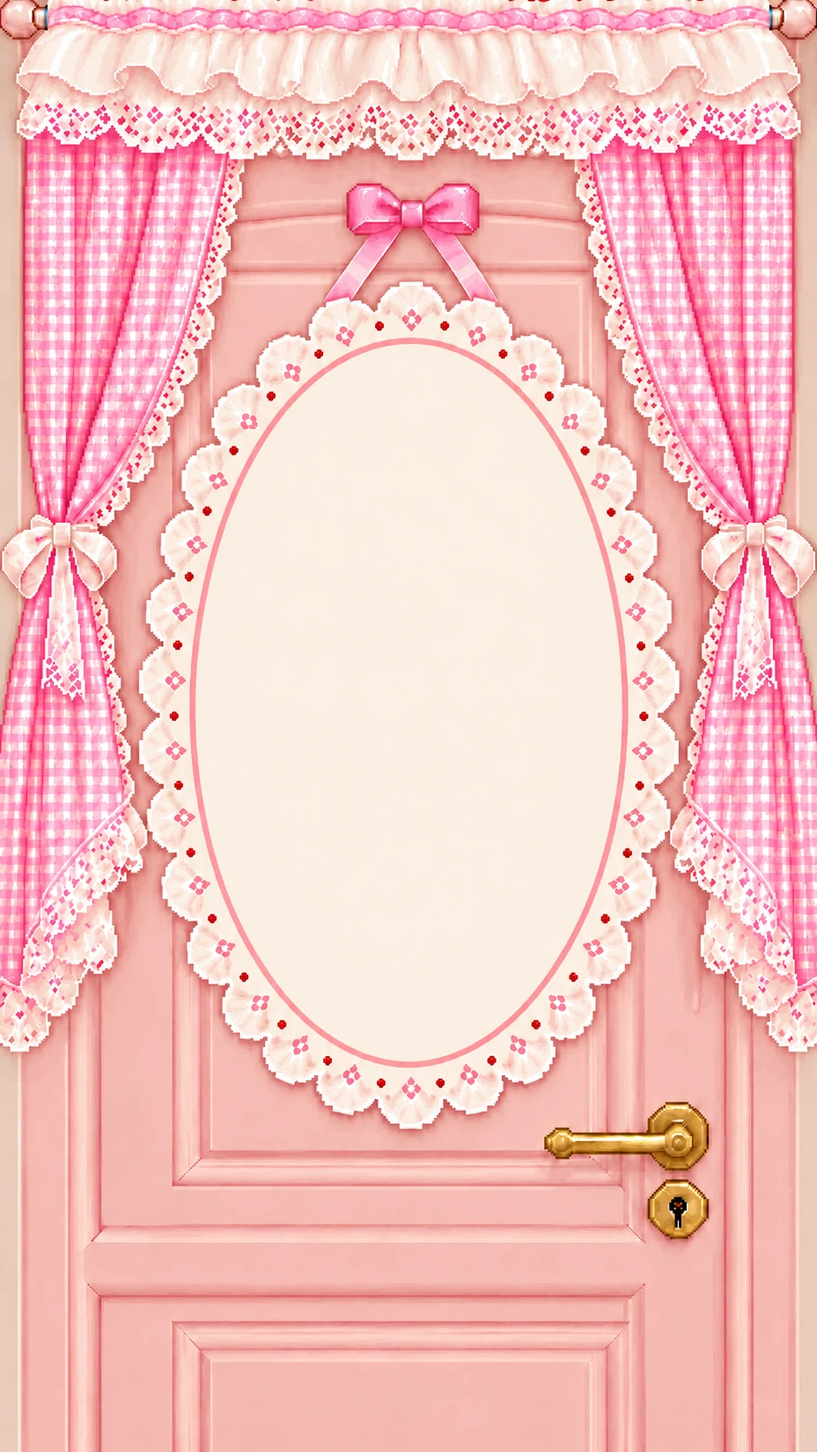
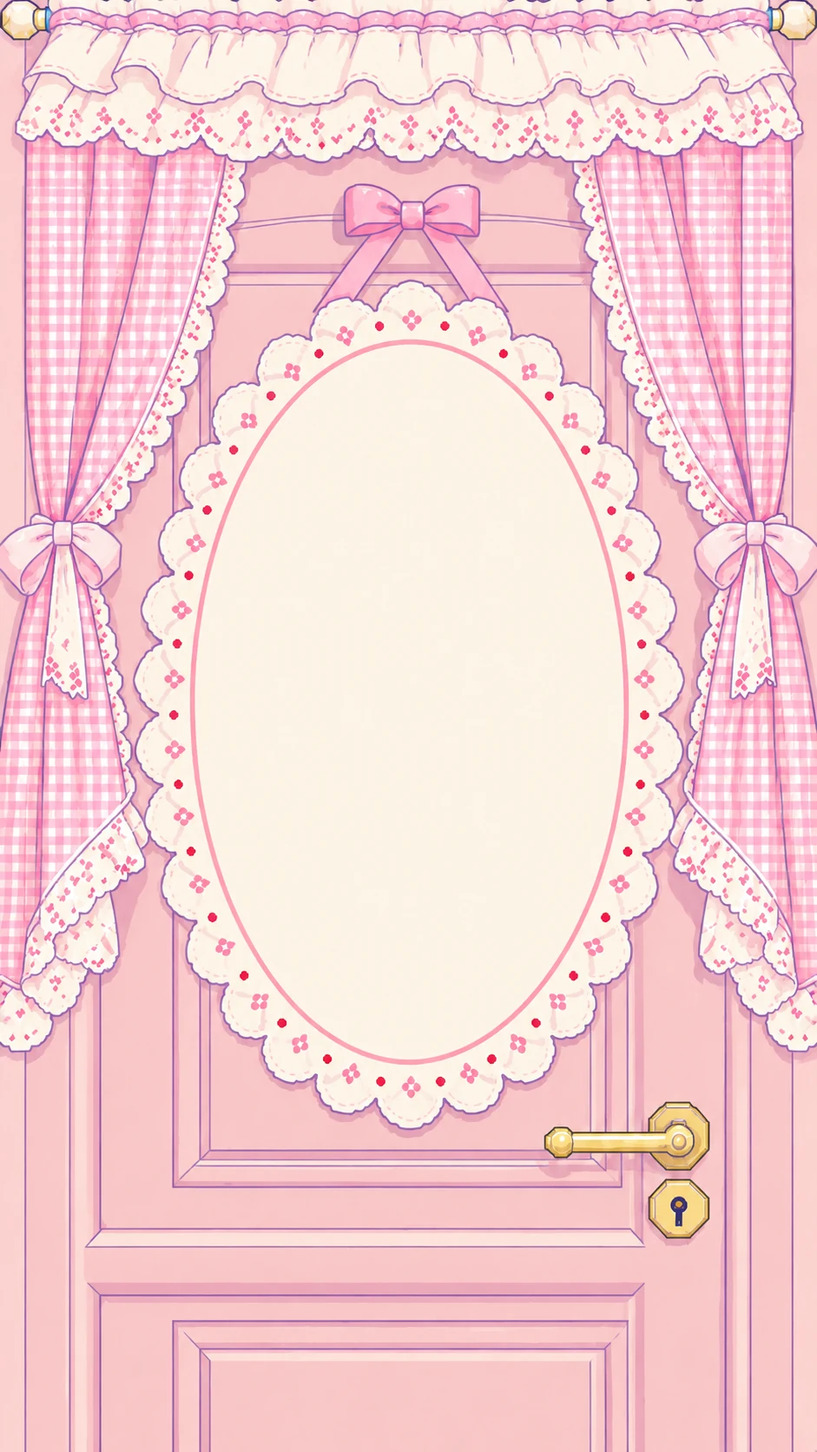
Add files via upload

diff --git a/index.html b/index.html
@@ -18,9 +18,9 @@
     <!-- html2canvas (PNG 저장용) -->
     <script src="https://cdnjs.cloudflare.com/ajax/libs/html2canvas/1.4.1/html2canvas.min.js"></script>
 
-    <script src="js/features.js?v=20261009-810"></script>   <!-- 🔓 기능 공개 스위치 (다른 것보다 먼저) -->
-    <link rel="stylesheet" href="css/style.css?v=20261009-810">
-    <link rel="stylesheet" href="css/dakku.css?v=20261009-810">
+    <script src="js/features.js?v=20261009-811"></script>   <!-- 🔓 기능 공개 스위치 (다른 것보다 먼저) -->
+    <link rel="stylesheet" href="css/style.css?v=20261009-811">
+    <link rel="stylesheet" href="css/dakku.css?v=20261009-811">
     <script src="https://accounts.google.com/gsi/client" async defer></script>
 </head>
 <body>
@@ -41,44 +41,14 @@
             <!-- 처음 화면 : 요정 픽셀 버튼 두 개 (도련 2026-10-20) · 그림은 SVG 한 칸 = 4px · 움직임은 css/style.css 의 gf- 칸 -->
             <button id="gateLoginBtn" class="gate-pick gf-btn gf-sky" type="button" style="display:none" onclick="driveLogin()">
             <span class="gf-art">
-            <svg viewBox="0 -3 76 37" aria-hidden="true">
-            <path fill="#e48aa9" d="M16 14h54v1h-54zM14 15h2v1h-2zM70 15h2v1h-2zM13 16h1v1h-1zM72 16h1v1h-1zM12 17h1v2h-1zM73 17h1v2h-1zM11 19h1v10h-1zM74 19h1v10h-1zM12 29h1v2h-1zM73 29h1v2h-1zM13 31h1v1h-1zM72 31h1v1h-1zM14 32h2v1h-2zM70 32h2v1h-2zM16 33h54v1h-54z"></path><path fill="#ffeef4" d="M16 15h54v1h-54zM14 16h58v1h-58zM13 17h1v1h-1zM72 17h1v1h-1z"></path><path fill="#ffd6e4" d="M14 17h4v1h-4zM20 17h1v1h-1zM23 17h1v1h-1zM26 17h1v1h-1zM29 17h1v1h-1zM32 17h1v1h-1zM35 17h1v1h-1zM38 17h1v1h-1zM41 17h1v1h-1zM44 17h1v1h-1zM47 17h1v1h-1zM50 17h1v1h-1zM53 17h1v1h-1zM56 17h1v1h-1zM59 17h1v1h-1zM62 17h1v1h-1zM65 17h1v1h-1zM68 17h4v1h-4zM13 18h56v1h-56zM70 18h3v1h-3zM12 19h58v1h-58zM71 19h3v1h-3zM12 20h62v1h-62zM12 21h2v2h-2zM15 21h56v2h-56zM72 21h2v2h-2zM12 23h62v1h-62zM12 24h2v2h-2zM15 24h56v2h-56zM72 24h2v2h-2zM12 26h62v1h-62zM12 27h2v1h-2zM15 27h56v1h-56zM72 27h2v1h-2zM13 28h57v1h-57zM71 28h2v1h-2zM14 29h2v1h-2zM17 29h52v1h-52zM70 29h2v1h-2zM16 30h1v1h-1zM19 30h1v1h-1zM22 30h1v1h-1zM25 30h1v1h-1zM28 30h1v1h-1zM31 30h1v1h-1zM34 30h1v1h-1zM37 30h1v1h-1zM40 30h1v1h-1zM43 30h1v1h-1zM46 30h1v1h-1zM49 30h1v1h-1zM52 30h1v1h-1zM55 30h1v1h-1zM58 30h1v1h-1zM61 30h1v1h-1zM64 30h1v1h-1zM67 30h1v1h-1zM69 30h1v1h-1z"></path><path fill="#ffffff" d="M18 17h2v1h-2zM21 17h2v1h-2zM24 17h2v1h-2zM27 17h2v1h-2zM30 17h2v1h-2zM33 17h2v1h-2zM36 17h2v1h-2zM39 17h2v1h-2zM42 17h2v1h-2zM45 17h2v1h-2zM48 17h2v1h-2zM51 17h2v1h-2zM54 17h2v1h-2zM57 17h2v1h-2zM60 17h2v1h-2zM63 17h2v1h-2zM66 17h2v1h-2zM69 18h1v1h-1zM70 19h1v1h-1zM14 21h1v2h-1zM71 21h1v2h-1zM14 24h1v2h-1zM71 24h1v2h-1zM14 27h1v1h-1zM71 27h1v1h-1zM70 28h1v1h-1zM16 29h1v1h-1zM69 29h1v1h-1zM17 30h2v1h-2zM20 30h2v1h-2zM23 30h2v1h-2zM26 30h2v1h-2zM29 30h2v1h-2zM32 30h2v1h-2zM35 30h2v1h-2zM38 30h2v1h-2zM41 30h2v1h-2zM44 30h2v1h-2zM47 30h2v1h-2zM50 30h2v1h-2zM53 30h2v1h-2zM56 30h2v1h-2zM59 30h2v1h-2zM62 30h2v1h-2zM65 30h2v1h-2zM68 30h1v1h-1z"></path><path fill="#f5b2c9" d="M12 28h1v1h-1zM73 28h1v1h-1zM13 29h1v1h-1zM72 29h1v1h-1zM13 30h3v1h-3zM70 30h3v1h-3zM14 31h58v1h-58zM16 32h54v1h-54z"></path>
-            <g class="gf-fy"><!-- 🧚 분홍 요정 = 분홍 버튼 (도련 10-28 · 요정 자리 바꿈) --><g transform="translate(-50 0)">
-            <g class="gf-wu"><path fill="#f3a6c4" d="M54 0h3v1h-3zM69 0h3v1h-3zM53 1h1v1h-1zM57 1h1v1h-1zM68 1h1v1h-1zM72 1h1v1h-1zM52 2h1v5h-1zM58 2h1v5h-1zM67 2h1v5h-1zM73 2h1v5h-1zM53 7h1v1h-1zM57 7h1v1h-1zM68 7h1v1h-1zM72 7h1v1h-1zM54 8h1v2h-1zM58 8h1v3h-1zM67 8h1v3h-1zM71 8h1v2h-1zM55 10h1v1h-1zM70 10h1v1h-1zM56 11h2v1h-2zM68 11h2v1h-2z"></path><path fill="#ffe9f2" d="M54 1h3v1h-3zM69 1h3v1h-3zM53 2h5v1h-5zM68 2h5v1h-5zM53 3h2v1h-2zM56 3h2v1h-2zM68 3h2v1h-2zM71 3h2v1h-2zM53 4h5v3h-5zM68 4h5v3h-5zM54 7h3v1h-3zM69 7h3v1h-3zM55 8h3v2h-3zM68 8h3v2h-3zM56 10h2v1h-2zM68 10h2v1h-2z"></path><path fill="#ffffff" d="M55 3h1v1h-1zM70 3h1v1h-1z"></path></g>
-            <g class="gf-wd"><path fill="#f3a6c4" d="M54 3h3v1h-3zM69 3h3v1h-3zM53 4h1v1h-1zM57 4h1v1h-1zM68 4h1v1h-1zM72 4h1v1h-1zM52 5h1v5h-1zM58 5h1v8h-1zM67 5h1v8h-1zM73 5h1v5h-1zM53 10h1v1h-1zM72 10h1v1h-1zM54 11h1v1h-1zM71 11h1v1h-1zM55 12h1v1h-1zM70 12h1v1h-1zM56 13h2v1h-2zM68 13h2v1h-2z"></path><path fill="#ffe9f2" d="M54 4h3v1h-3zM69 4h3v1h-3zM53 5h5v1h-5zM68 5h5v1h-5zM53 6h2v1h-2zM56 6h2v1h-2zM68 6h2v1h-2zM71 6h2v1h-2zM53 7h5v3h-5zM68 7h5v3h-5zM54 10h4v1h-4zM68 10h4v1h-4zM55 11h3v1h-3zM68 11h3v1h-3zM56 12h2v1h-2zM68 12h2v1h-2z"></path><path fill="#ffffff" d="M55 6h1v1h-1zM70 6h1v1h-1z"></path></g>
-            <path fill="#ff6b81" d="M65 -1h1v1h-1zM64 0h1v1h-1zM66 0h1v1h-1zM65 1h1v1h-1z"></path><path fill="#e08aa8" d="M60 0h4v1h-4zM59 1h1v1h-1zM66 1h1v1h-1zM58 2h1v1h-1zM67 2h1v1h-1zM57 3h1v6h-1zM68 3h1v6h-1zM58 9h1v1h-1zM67 9h1v1h-1zM59 10h2v1h-2zM65 10h2v1h-2zM60 11h1v1h-1zM65 11h1v1h-1zM56 12h1v1h-1zM59 12h1v1h-1zM66 12h1v1h-1zM57 13h2v1h-2zM67 13h1v1h-1zM58 14h1v1h-1zM67 14h1v1h-1zM57 15h1v1h-1zM68 15h1v1h-1zM57 16h12v1h-12zM60 17h1v1h-1zM65 17h1v1h-1zM60 18h2v1h-2zM64 18h2v1h-2z"></path><path fill="#ffe27a" d="M65 0h1v1h-1z"></path><path fill="#ff9fbf" d="M60 1h5v1h-5zM59 2h8v1h-8zM58 3h10v1h-10zM58 4h2v1h-2zM61 4h4v1h-4zM66 4h2v1h-2zM58 5h1v1h-1zM66 5h1v1h-1zM58 6h1v1h-1zM67 6h1v1h-1zM58 7h1v1h-1zM67 7h1v1h-1zM58 8h1v1h-1zM67 8h1v1h-1zM59 9h1v1h-1zM66 9h1v1h-1z"></path><path fill="#7cc58f" d="M67 1h2v1h-2z"></path><path fill="#f0769f" d="M60 4h1v1h-1zM65 4h1v1h-1zM59 5h1v1h-1zM67 5h1v1h-1z"></path><path fill="#ffe5d6" d="M60 5h6v1h-6zM59 6h8v1h-8zM59 7h8v1h-8zM60 8h2v1h-2zM64 8h2v1h-2zM60 9h6v1h-6zM61 10h4v1h-4zM57 12h1v1h-1zM61 17h1v1h-1zM64 17h1v1h-1z"></path><path fill="#ff9fb5" d="M59 8h1v1h-1zM66 8h1v1h-1z"></path><path fill="#d9607a" d="M62 8h2v1h-2z"></path><path fill="#bfe9c9" d="M61 11h4v1h-4zM60 12h6v1h-6zM59 13h2v1h-2zM62 13h2v1h-2zM65 13h2v1h-2zM59 14h8v1h-8zM58 15h2v1h-2zM61 15h4v1h-4zM66 15h2v1h-2z"></path><path fill="#8fd0a2" d="M61 13h1v1h-1zM64 13h1v1h-1zM60 15h1v1h-1zM65 15h1v1h-1z"></path>
-            <g class="gf-eo"><path fill="#6a4a5c" d="M60 6h1v2h-1zM65 6h1v2h-1z"></path></g>
-            <g class="gf-ec"><path fill="#6a4a5c" d="M59 7h2v1h-2zM65 7h2v1h-2z"></path></g>
-            <g class="gf-eh"><path fill="#6a4a5c" d="M60 6h1v1h-1zM65 6h1v1h-1zM59 7h1v1h-1zM61 7h1v1h-1zM64 7h1v1h-1zM66 7h1v1h-1z"></path></g>
-            <g class="gf-wnd"><path fill="#ff6b81" d="M72 5h1v1h-1zM71 6h3v1h-3zM70 7h2v1h-2zM73 7h2v1h-2zM71 8h1v1h-1zM73 8h1v1h-1z"></path><path fill="#ffffff" d="M72 7h1v1h-1z"></path><path fill="#c08a5a" d="M72 9h1v1h-1zM71 10h1v1h-1zM70 11h1v1h-1z"></path><path fill="#ffe5d6" d="M69 12h1v1h-1z"></path><path fill="#e08aa8" d="M70 12h1v1h-1zM69 13h1v1h-1z"></path></g>
-            </g></g>
-            <g class="gf-ht"><g transform="translate(27 2)"><path fill="#ff6b81" d="M1 0h2v1h-2zM4 0h2v1h-2zM0 1h1v1h-1zM2 1h5v1h-5zM0 2h7v1h-7zM1 3h5v1h-5zM2 4h3v1h-3zM3 5h1v1h-1z"></path><path fill="#ffffff" d="M1 1h1v1h-1z"></path></g></g>
-            <g class="gf-ht gf-ht2"><g transform="translate(-4 6)"><path fill="#ffb3c8" d="M1 0h2v1h-2zM4 0h2v1h-2zM0 1h7v2h-7zM1 3h5v1h-5zM2 4h3v1h-3zM3 5h1v1h-1z"></path></g></g>
-            <g class="gf-sp"><g transform="translate(25 0)"><path fill="#ffd34d" d="M1 0h1v1h-1zM0 1h3v1h-3zM1 2h1v1h-1z"></path></g></g>
-            <g class="gf-sp gf-sp2"><g transform="translate(70 8)"><path fill="#ffd34d" d="M2 0h1v2h-1zM0 2h2v1h-2zM3 2h2v1h-2zM2 3h1v2h-1z"></path><path fill="#ffffff" d="M2 2h1v1h-1z"></path></g></g>
-            </svg>
+            <svg viewBox="0 -3 76 37" aria-hidden="true"><defs><linearGradient id="gflg" x1="0" y1="0" x2="0" y2="1"><stop offset="0" stop-color="#ffe3ed"/><stop offset="1" stop-color="#fcc0d4"/></linearGradient></defs><rect x="11.3" y="16.2" width="63.4" height="17.6" rx="5.2" fill="#f2a6c1" stroke="#9a6eaa" stroke-width=".55"/><rect x="11.3" y="14.3" width="63.4" height="17.4" rx="5.2" fill="url(#gflg)" stroke="#9a6eaa" stroke-width=".55"/><rect x="12.9" y="15.9" width="60.2" height="14.2" rx="3.8" fill="none" stroke="#fff" stroke-width=".5" stroke-dasharray="1.5 1.1" opacity=".95"/><path d="M15 16.3 H71" stroke="#fff" stroke-width=".9" stroke-linecap="round" opacity=".55"/><g class="gf-fy"><!-- 🧚 분홍 요정 = 분홍 버튼 (도련 10-28 · 문 그림의 연보라 선 · 파스텔 톤) --><g transform="translate(0 -.5)"><g class="gf-wu"><g transform="rotate(-32 10 10)"><ellipse cx="5.7" cy="8.6" rx="4.3" ry="2.9" fill="#ffd3e4" stroke="#9a6eaa" stroke-width=".5" stroke-linejoin="round"/><ellipse cx="7" cy="12.4" rx="2.7" ry="1.8" fill="#ffd3e4" stroke="#9a6eaa" stroke-width=".5" stroke-linejoin="round"/><ellipse cx="5.1000000000000005" cy="8" rx="2.2" ry="1.1" fill="#fff3f8"/></g><g transform="rotate(32 14 10)"><ellipse cx="18.3" cy="8.6" rx="4.3" ry="2.9" fill="#ffd3e4" stroke="#9a6eaa" stroke-width=".5" stroke-linejoin="round"/><ellipse cx="17" cy="12.4" rx="2.7" ry="1.8" fill="#ffd3e4" stroke="#9a6eaa" stroke-width=".5" stroke-linejoin="round"/><ellipse cx="18.900000000000002" cy="8" rx="2.2" ry="1.1" fill="#fff3f8"/></g></g><g class="gf-wd"><g transform="rotate(-8 10 11.4)"><ellipse cx="5.7" cy="10.0" rx="4.3" ry="2.9" fill="#ffd3e4" stroke="#9a6eaa" stroke-width=".5" stroke-linejoin="round"/><ellipse cx="7" cy="13.8" rx="2.7" ry="1.8" fill="#ffd3e4" stroke="#9a6eaa" stroke-width=".5" stroke-linejoin="round"/><ellipse cx="5.1000000000000005" cy="9.4" rx="2.2" ry="1.1" fill="#fff3f8"/></g><g transform="rotate(8 14 11.4)"><ellipse cx="18.3" cy="10.0" rx="4.3" ry="2.9" fill="#ffd3e4" stroke="#9a6eaa" stroke-width=".5" stroke-linejoin="round"/><ellipse cx="17" cy="13.8" rx="2.7" ry="1.8" fill="#ffd3e4" stroke="#9a6eaa" stroke-width=".5" stroke-linejoin="round"/><ellipse cx="18.900000000000002" cy="9.4" rx="2.2" ry="1.1" fill="#fff3f8"/></g></g><ellipse cx="10.6" cy="19.5" rx="1" ry=".7" fill="#ffeadf" stroke="#9a6eaa" stroke-width=".5" stroke-linejoin="round"/><ellipse cx="13.4" cy="19.5" rx="1" ry=".7" fill="#ffeadf" stroke="#9a6eaa" stroke-width=".5" stroke-linejoin="round"/><path d="M9 11.8H15L17.4 18.4Q12 20.1 6.6 18.4Z" fill="#c9ecd4" stroke="#9a6eaa" stroke-width=".5" stroke-linejoin="round"/><path d="M9.6 13.2 8.2 17.6" stroke="#eafaef" stroke-width=".9" stroke-linecap="round"/><path d="M7.4 17.9Q12 19.3 16.6 17.9" fill="none" stroke="#9a6eaa" stroke-width=".35" stroke-dasharray=".7 .5"/><circle cx="7.9" cy="13.6" r=".85" fill="#ffeadf" stroke="#9a6eaa" stroke-width=".5" stroke-linejoin="round"/><ellipse cx="7.3" cy="9.3" rx="1.25" ry="2.5" fill="#f8a9c6" stroke="#9a6eaa" stroke-width=".5" stroke-linejoin="round"/><ellipse cx="16.7" cy="9.3" rx="1.25" ry="2.5" fill="#f8a9c6" stroke="#9a6eaa" stroke-width=".5" stroke-linejoin="round"/><circle cx="12" cy="7.1" r="5" fill="#ffeadf" stroke="#9a6eaa" stroke-width=".5" stroke-linejoin="round"/><path d="M6.9 7.9C6.5 3.4 9 1.5 12 1.5S17.5 3.4 17.1 7.9C16.2 6.2 15 5.3 13.6 5.1 13 5.9 11.8 6.3 10.6 5.4 9.1 5.6 7.8 6.4 6.9 7.9Z" fill="#f8a9c6" stroke="#9a6eaa" stroke-width=".5" stroke-linejoin="round"/><path d="M9.2 3.1Q11 2.2 13.2 2.6" fill="none" stroke="#ffd2e2" stroke-width=".7" stroke-linecap="round"/><circle cx="15.9" cy="1.5999999999999999" r=".8" fill="#ff8fb0" stroke="#9a6eaa" stroke-width=".5" stroke-linejoin="round"/><circle cx="16.7" cy="2.4" r=".8" fill="#ff8fb0" stroke="#9a6eaa" stroke-width=".5" stroke-linejoin="round"/><circle cx="15.9" cy="3.2" r=".8" fill="#ff8fb0" stroke="#9a6eaa" stroke-width=".5" stroke-linejoin="round"/><circle cx="15.1" cy="2.4" r=".8" fill="#ff8fb0" stroke="#9a6eaa" stroke-width=".5" stroke-linejoin="round"/><circle cx="15.9" cy="2.4" r=".55" fill="#ffe28a"/><circle cx="9.1" cy="9.1" r=".85" fill="#ffb6c9" opacity=".75"/><circle cx="14.9" cy="9.1" r=".85" fill="#ffb6c9" opacity=".75"/><path d="M11.4 9.5Q12 10.1 12.6 9.5" fill="none" stroke="#c96a8a" stroke-width=".4" stroke-linecap="round"/><g class="gf-eo"><ellipse cx="10" cy="7.7" rx=".55" ry=".8" fill="#5e4470"/><ellipse cx="14" cy="7.7" rx=".55" ry=".8" fill="#5e4470"/><circle cx="10.2" cy="7.4" r=".2" fill="#fff"/><circle cx="14.2" cy="7.4" r=".2" fill="#fff"/></g><g class="gf-ec"><path d="M9.3 7.9Q10 8.4 10.7 7.9M13.3 7.9Q14 8.4 14.7 7.9" fill="none" stroke="#5e4470" stroke-width=".42" stroke-linecap="round"/></g><g class="gf-eh"><path d="M9.3 8.1Q10 7.2 10.7 8.1M13.3 8.1Q14 7.2 14.7 8.1" fill="none" stroke="#5e4470" stroke-width=".42" stroke-linecap="round"/></g><g class="gf-wnd"><path d="M16.3 13.4 20.2 8.4" stroke="#9a6eaa" stroke-width="1" stroke-linecap="round"/><path d="M16.3 13.4 20.2 8.4" stroke="#f3d8a8" stroke-width=".45" stroke-linecap="round"/><path transform="translate(18.6 5) scale(.9)" d="M2.5 0 3.2 1.7 5 1.9 3.6 3.1 4 4.9 2.5 4 1 4.9 1.4 3.1 0 1.9 1.8 1.7Z" fill="#ff9fbd" stroke="#9a6eaa" stroke-width=".5" stroke-linejoin="round"/><circle cx="16.2" cy="13.5" r=".85" fill="#ffeadf" stroke="#9a6eaa" stroke-width=".5" stroke-linejoin="round"/></g></g></g><g class="gf-ht"><g><path transform="translate(26.5 2) scale(0.9)" d="M3 5.4C1.2 4 0 3 0 1.7 0 .7.8 0 1.6 0c.6 0 1.1.3 1.4.8C3.3.3 3.8 0 4.4 0 5.2 0 6 .7 6 1.7 6 3 4.8 4 3 5.4z" fill="#ff9fbd" stroke="#9a6eaa" stroke-width=".45" stroke-linejoin="round"/><circle cx="27.85" cy="3.35" r="0.49500000000000005" fill="#fff" opacity=".9"/></g></g><g class="gf-ht gf-ht2"><g><path transform="translate(-4 6.5) scale(0.8)" d="M3 5.4C1.2 4 0 3 0 1.7 0 .7.8 0 1.6 0c.6 0 1.1.3 1.4.8C3.3.3 3.8 0 4.4 0 5.2 0 6 .7 6 1.7 6 3 4.8 4 3 5.4z" fill="#ffd0de" stroke="#9a6eaa" stroke-width=".45" stroke-linejoin="round"/><circle cx="-2.8" cy="7.7" r="0.44000000000000006" fill="#fff" opacity=".9"/></g></g><g class="gf-sp"><g><path transform="translate(24.5 -0.5) scale(0.8)" d="M2.5 0Q2.9 2.1 5 2.5Q2.9 2.9 2.5 5Q2.1 2.9 0 2.5Q2.1 2.1 2.5 0Z" fill="#ffe28a" stroke="#9a6eaa" stroke-width=".4" stroke-linejoin="round"/></g></g><g class="gf-sp gf-sp2"><g><path transform="translate(69.5 7.5) scale(0.9)" d="M2.5 0Q2.9 2.1 5 2.5Q2.9 2.9 2.5 5Q2.1 2.9 0 2.5Q2.1 2.1 2.5 0Z" fill="#ffe28a" stroke="#9a6eaa" stroke-width=".4" stroke-linejoin="round"/></g></g></svg>
             <span class="gf-lbl" style="top: 46%; height: 54%; left: 15%; right: 2%;">구글 계정으로 다꾸하기</span>
             </span>
             <span class="gf-desc">폰 · 태블릿 · 컴퓨터 어디든 이어서 쓰고 싶을 때<i>(접속한 구글 드라이브에 저장)</i></span>
             </button>
             <button id="gateGuestBtn" class="gate-pick gf-btn gf-fl" type="button" style="display:none" onclick="dvChoose()">
             <span class="gf-art">
-            <svg viewBox="0 -3 76 37" aria-hidden="true">
-            <path fill="#a98fdc" d="M6 14h54v1h-54zM4 15h2v1h-2zM60 15h2v1h-2zM3 16h1v1h-1zM62 16h1v1h-1zM2 17h1v2h-1zM63 17h1v2h-1zM1 19h1v10h-1zM64 19h1v10h-1zM2 29h1v2h-1zM63 29h1v2h-1zM3 31h1v1h-1zM62 31h1v1h-1zM4 32h2v1h-2zM60 32h2v1h-2zM6 33h54v1h-54z"></path><path fill="#f6f0ff" d="M6 15h54v1h-54zM4 16h58v1h-58zM3 17h1v1h-1zM62 17h1v1h-1z"></path><path fill="#e9ddff" d="M4 17h4v1h-4zM10 17h1v1h-1zM13 17h1v1h-1zM16 17h1v1h-1zM19 17h1v1h-1zM22 17h1v1h-1zM25 17h1v1h-1zM28 17h1v1h-1zM31 17h1v1h-1zM34 17h1v1h-1zM37 17h1v1h-1zM40 17h1v1h-1zM43 17h1v1h-1zM46 17h1v1h-1zM49 17h1v1h-1zM52 17h1v1h-1zM55 17h1v1h-1zM58 17h4v1h-4zM3 18h56v1h-56zM60 18h3v1h-3zM2 19h58v1h-58zM61 19h3v1h-3zM2 20h62v1h-62zM2 21h2v2h-2zM5 21h56v2h-56zM62 21h2v2h-2zM2 23h62v1h-62zM2 24h2v2h-2zM5 24h56v2h-56zM62 24h2v2h-2zM2 26h62v1h-62zM2 27h2v1h-2zM5 27h56v1h-56zM62 27h2v1h-2zM3 28h57v1h-57zM61 28h2v1h-2zM4 29h2v1h-2zM7 29h52v1h-52zM60 29h2v1h-2zM6 30h1v1h-1zM9 30h1v1h-1zM12 30h1v1h-1zM15 30h1v1h-1zM18 30h1v1h-1zM21 30h1v1h-1zM24 30h1v1h-1zM27 30h1v1h-1zM30 30h1v1h-1zM33 30h1v1h-1zM36 30h1v1h-1zM39 30h1v1h-1zM42 30h1v1h-1zM45 30h1v1h-1zM48 30h1v1h-1zM51 30h1v1h-1zM54 30h1v1h-1zM57 30h1v1h-1zM59 30h1v1h-1z"></path><path fill="#ffffff" d="M8 17h2v1h-2zM11 17h2v1h-2zM14 17h2v1h-2zM17 17h2v1h-2zM20 17h2v1h-2zM23 17h2v1h-2zM26 17h2v1h-2zM29 17h2v1h-2zM32 17h2v1h-2zM35 17h2v1h-2zM38 17h2v1h-2zM41 17h2v1h-2zM44 17h2v1h-2zM47 17h2v1h-2zM50 17h2v1h-2zM53 17h2v1h-2zM56 17h2v1h-2zM59 18h1v1h-1zM60 19h1v1h-1zM4 21h1v2h-1zM61 21h1v2h-1zM4 24h1v2h-1zM61 24h1v2h-1zM4 27h1v1h-1zM61 27h1v1h-1zM60 28h1v1h-1zM6 29h1v1h-1zM59 29h1v1h-1zM7 30h2v1h-2zM10 30h2v1h-2zM13 30h2v1h-2zM16 30h2v1h-2zM19 30h2v1h-2zM22 30h2v1h-2zM25 30h2v1h-2zM28 30h2v1h-2zM31 30h2v1h-2zM34 30h2v1h-2zM37 30h2v1h-2zM40 30h2v1h-2zM43 30h2v1h-2zM46 30h2v1h-2zM49 30h2v1h-2zM52 30h2v1h-2zM55 30h2v1h-2zM58 30h1v1h-1z"></path><path fill="#cdb8f5" d="M2 28h1v1h-1zM63 28h1v1h-1zM3 29h1v1h-1zM62 29h1v1h-1zM3 30h3v1h-3zM60 30h3v1h-3zM4 31h58v1h-58zM6 32h54v1h-54z"></path>
-            <g class="gf-fy"><!-- 🧚 파란 요정 = 보라 버튼 (도련 10-28) --><g transform="translate(50 0)">
-            <g class="gf-wu"><path fill="#8fc9e8" d="M4 0h3v1h-3zM19 0h3v1h-3zM3 1h1v1h-1zM7 1h1v1h-1zM18 1h1v1h-1zM22 1h1v1h-1zM2 2h1v5h-1zM8 2h1v5h-1zM17 2h1v5h-1zM23 2h1v5h-1zM3 7h1v1h-1zM7 7h1v1h-1zM18 7h1v1h-1zM22 7h1v1h-1zM4 8h1v2h-1zM8 8h1v3h-1zM17 8h1v3h-1zM21 8h1v2h-1zM5 10h1v1h-1zM20 10h1v1h-1zM6 11h2v1h-2zM18 11h2v1h-2z"></path><path fill="#e4f6ff" d="M4 1h3v1h-3zM19 1h3v1h-3zM3 2h5v1h-5zM18 2h5v1h-5zM3 3h2v1h-2zM6 3h2v1h-2zM18 3h2v1h-2zM21 3h2v1h-2zM3 4h5v3h-5zM18 4h5v3h-5zM4 7h3v1h-3zM19 7h3v1h-3zM5 8h3v2h-3zM18 8h3v2h-3zM6 10h2v1h-2zM18 10h2v1h-2z"></path><path fill="#ffffff" d="M5 3h1v1h-1zM20 3h1v1h-1z"></path></g>
-            <g class="gf-wd"><path fill="#8fc9e8" d="M4 3h3v1h-3zM19 3h3v1h-3zM3 4h1v1h-1zM7 4h1v1h-1zM18 4h1v1h-1zM22 4h1v1h-1zM2 5h1v5h-1zM8 5h1v8h-1zM17 5h1v8h-1zM23 5h1v5h-1zM3 10h1v1h-1zM22 10h1v1h-1zM4 11h1v1h-1zM21 11h1v1h-1zM5 12h1v1h-1zM20 12h1v1h-1zM6 13h2v1h-2zM18 13h2v1h-2z"></path><path fill="#e4f6ff" d="M4 4h3v1h-3zM19 4h3v1h-3zM3 5h5v1h-5zM18 5h5v1h-5zM3 6h2v1h-2zM6 6h2v1h-2zM18 6h2v1h-2zM21 6h2v1h-2zM3 7h5v3h-5zM18 7h5v3h-5zM4 10h4v1h-4zM18 10h4v1h-4zM5 11h3v1h-3zM18 11h3v1h-3zM6 12h2v1h-2zM18 12h2v1h-2z"></path><path fill="#ffffff" d="M5 6h1v1h-1zM20 6h1v1h-1z"></path></g>
-            <path fill="#ffd34d" d="M12 -2h1v1h-1zM14 -2h1v1h-1zM11 -1h1v1h-1zM15 -1h1v1h-1z"></path><path fill="#ffffff" d="M13 -1h1v1h-1zM11 11h4v1h-4zM10 12h6v1h-6zM9 13h2v1h-2zM12 13h2v1h-2zM15 13h2v1h-2zM9 14h8v1h-8zM8 15h2v1h-2zM11 15h4v1h-4zM16 15h2v1h-2z"></path><path fill="#8f9fd6" d="M10 0h6v1h-6zM9 1h1v1h-1zM16 1h1v1h-1zM8 2h1v1h-1zM17 2h1v1h-1zM7 3h1v6h-1zM18 3h1v6h-1zM8 9h1v1h-1zM17 9h1v1h-1zM9 10h2v1h-2zM15 10h2v1h-2zM10 11h1v1h-1zM15 11h1v1h-1zM6 12h1v1h-1zM9 12h1v1h-1zM16 12h1v1h-1zM7 13h2v1h-2zM17 13h1v1h-1zM8 14h1v1h-1zM17 14h1v1h-1zM7 15h1v1h-1zM18 15h1v1h-1zM7 16h12v1h-12zM10 17h1v1h-1zM15 17h1v1h-1zM10 18h2v1h-2zM14 18h2v1h-2z"></path><path fill="#a9c8ff" d="M10 1h6v1h-6zM9 2h8v1h-8zM8 3h10v1h-10zM8 4h2v1h-2zM11 4h4v1h-4zM16 4h2v1h-2zM8 5h1v1h-1zM16 5h1v1h-1zM8 6h1v1h-1zM17 6h1v1h-1zM8 7h1v1h-1zM17 7h1v1h-1zM8 8h1v1h-1zM17 8h1v1h-1zM9 9h1v1h-1zM16 9h1v1h-1z"></path><path fill="#7fa6ec" d="M10 4h1v1h-1zM15 4h1v1h-1zM9 5h1v1h-1zM17 5h1v1h-1z"></path><path fill="#ffe5d6" d="M10 5h6v1h-6zM9 6h8v1h-8zM9 7h8v1h-8zM10 8h2v1h-2zM14 8h2v1h-2zM10 9h6v1h-6zM11 10h4v1h-4zM7 12h1v1h-1zM11 17h1v1h-1zM14 17h1v1h-1z"></path><path fill="#ff9fb5" d="M9 8h1v1h-1zM16 8h1v1h-1z"></path><path fill="#d9607a" d="M12 8h2v1h-2z"></path><path fill="#cfe0ff" d="M11 13h1v1h-1zM14 13h1v1h-1zM10 15h1v1h-1zM15 15h1v1h-1z"></path>
-            <g class="gf-eo"><path fill="#6a4a5c" d="M10 6h1v2h-1zM15 6h1v2h-1z"></path></g>
-            <g class="gf-ec"><path fill="#6a4a5c" d="M9 7h2v1h-2zM15 7h2v1h-2z"></path></g>
-            <g class="gf-eh"><path fill="#6a4a5c" d="M10 6h1v1h-1zM15 6h1v1h-1zM9 7h1v1h-1zM11 7h1v1h-1zM14 7h1v1h-1zM16 7h1v1h-1z"></path></g>
-            <g class="gf-wnd"><path fill="#ffd34d" d="M22 5h1v1h-1zM21 6h3v1h-3zM20 7h2v1h-2zM23 7h2v1h-2zM21 8h1v1h-1zM23 8h1v1h-1z"></path><path fill="#ffffff" d="M22 7h1v1h-1z"></path><path fill="#c08a5a" d="M22 9h1v1h-1zM21 10h1v1h-1zM20 11h1v1h-1z"></path><path fill="#ffe5d6" d="M19 12h1v1h-1z"></path><path fill="#8f9fd6" d="M20 12h1v1h-1zM19 13h1v1h-1z"></path></g>
-            </g></g>
-            <g class="gf-ht"><g transform="translate(43 2)"><path fill="#ff6b81" d="M1 0h2v1h-2zM4 0h2v1h-2zM0 1h1v1h-1zM2 1h5v1h-5zM0 2h7v1h-7zM1 3h5v1h-5zM2 4h3v1h-3zM3 5h1v1h-1z"></path><path fill="#ffffff" d="M1 1h1v1h-1z"></path></g></g>
-            <g class="gf-ht gf-ht2"><g transform="translate(36 8)"><path fill="#ffb3c8" d="M1 0h2v1h-2zM4 0h2v1h-2zM0 1h7v2h-7zM1 3h5v1h-5zM2 4h3v1h-3zM3 5h1v1h-1z"></path></g></g>
-            <g class="gf-sp"><g transform="translate(48 9)"><path fill="#ffd34d" d="M1 0h1v1h-1zM0 1h3v1h-3zM1 2h1v1h-1z"></path></g></g>
-            <g class="gf-sp gf-sp2"><g transform="translate(74 0)"><path fill="#ffd34d" d="M2 0h1v2h-1zM0 2h2v1h-2zM3 2h2v1h-2zM2 3h1v2h-1z"></path><path fill="#ffffff" d="M2 2h1v1h-1z"></path></g></g>
-            </svg>
+            <svg viewBox="0 -3 76 37" aria-hidden="true"><defs><linearGradient id="gfgg" x1="0" y1="0" x2="0" y2="1"><stop offset="0" stop-color="#f3ecff"/><stop offset="1" stop-color="#dccdf8"/></linearGradient></defs><rect x="1.3" y="16.2" width="63.4" height="17.6" rx="5.2" fill="#c7b2ef" stroke="#9a6eaa" stroke-width=".55"/><rect x="1.3" y="14.3" width="63.4" height="17.4" rx="5.2" fill="url(#gfgg)" stroke="#9a6eaa" stroke-width=".55"/><rect x="2.9" y="15.9" width="60.2" height="14.2" rx="3.8" fill="none" stroke="#fff" stroke-width=".5" stroke-dasharray="1.5 1.1" opacity=".95"/><path d="M5 16.3 H61" stroke="#fff" stroke-width=".9" stroke-linecap="round" opacity=".55"/><g class="gf-fy"><!-- 🧚 파란 요정 = 보라 버튼 (도련 10-28 · 문 그림의 연보라 선 · 파스텔 톤) --><g transform="translate(51 -.5)"><g class="gf-wu"><g transform="rotate(-32 10 10)"><ellipse cx="5.7" cy="8.6" rx="4.3" ry="2.9" fill="#cfe5fb" stroke="#9a6eaa" stroke-width=".5" stroke-linejoin="round"/><ellipse cx="7" cy="12.4" rx="2.7" ry="1.8" fill="#cfe5fb" stroke="#9a6eaa" stroke-width=".5" stroke-linejoin="round"/><ellipse cx="5.1000000000000005" cy="8" rx="2.2" ry="1.1" fill="#f2f9ff"/></g><g transform="rotate(32 14 10)"><ellipse cx="18.3" cy="8.6" rx="4.3" ry="2.9" fill="#cfe5fb" stroke="#9a6eaa" stroke-width=".5" stroke-linejoin="round"/><ellipse cx="17" cy="12.4" rx="2.7" ry="1.8" fill="#cfe5fb" stroke="#9a6eaa" stroke-width=".5" stroke-linejoin="round"/><ellipse cx="18.900000000000002" cy="8" rx="2.2" ry="1.1" fill="#f2f9ff"/></g></g><g class="gf-wd"><g transform="rotate(-8 10 11.4)"><ellipse cx="5.7" cy="10.0" rx="4.3" ry="2.9" fill="#cfe5fb" stroke="#9a6eaa" stroke-width=".5" stroke-linejoin="round"/><ellipse cx="7" cy="13.8" rx="2.7" ry="1.8" fill="#cfe5fb" stroke="#9a6eaa" stroke-width=".5" stroke-linejoin="round"/><ellipse cx="5.1000000000000005" cy="9.4" rx="2.2" ry="1.1" fill="#f2f9ff"/></g><g transform="rotate(8 14 11.4)"><ellipse cx="18.3" cy="10.0" rx="4.3" ry="2.9" fill="#cfe5fb" stroke="#9a6eaa" stroke-width=".5" stroke-linejoin="round"/><ellipse cx="17" cy="13.8" rx="2.7" ry="1.8" fill="#cfe5fb" stroke="#9a6eaa" stroke-width=".5" stroke-linejoin="round"/><ellipse cx="18.900000000000002" cy="9.4" rx="2.2" ry="1.1" fill="#f2f9ff"/></g></g><ellipse cx="10.6" cy="19.5" rx="1" ry=".7" fill="#ffeadf" stroke="#9a6eaa" stroke-width=".5" stroke-linejoin="round"/><ellipse cx="13.4" cy="19.5" rx="1" ry=".7" fill="#ffeadf" stroke="#9a6eaa" stroke-width=".5" stroke-linejoin="round"/><path d="M9 11.8H15L17.4 18.4Q12 20.1 6.6 18.4Z" fill="#ffffff" stroke="#9a6eaa" stroke-width=".5" stroke-linejoin="round"/><path d="M9.6 13.2 8.2 17.6" stroke="#eef4fc" stroke-width=".9" stroke-linecap="round"/><path d="M7.4 17.9Q12 19.3 16.6 17.9" fill="none" stroke="#9a6eaa" stroke-width=".35" stroke-dasharray=".7 .5"/><circle cx="7.9" cy="13.6" r=".85" fill="#ffeadf" stroke="#9a6eaa" stroke-width=".5" stroke-linejoin="round"/><ellipse cx="7.3" cy="9.3" rx="1.25" ry="2.5" fill="#a7cdf2" stroke="#9a6eaa" stroke-width=".5" stroke-linejoin="round"/><ellipse cx="16.7" cy="9.3" rx="1.25" ry="2.5" fill="#a7cdf2" stroke="#9a6eaa" stroke-width=".5" stroke-linejoin="round"/><circle cx="12" cy="7.1" r="5" fill="#ffeadf" stroke="#9a6eaa" stroke-width=".5" stroke-linejoin="round"/><path d="M6.9 7.9C6.5 3.4 9 1.5 12 1.5S17.5 3.4 17.1 7.9C16.2 6.2 15 5.3 13.6 5.1 13 5.9 11.8 6.3 10.6 5.4 9.1 5.6 7.8 6.4 6.9 7.9Z" fill="#a7cdf2" stroke="#9a6eaa" stroke-width=".5" stroke-linejoin="round"/><path d="M9.2 3.1Q11 2.2 13.2 2.6" fill="none" stroke="#d7eafc" stroke-width=".7" stroke-linecap="round"/><ellipse cx="12" cy="-.3" rx="3.2" ry=".95" fill="none" stroke="#9a6eaa" stroke-width="1.15"/><ellipse cx="12" cy="-.3" rx="3.2" ry=".95" fill="none" stroke="#ffe28a" stroke-width=".55"/><circle cx="9.1" cy="9.1" r=".85" fill="#ffb6c9" opacity=".75"/><circle cx="14.9" cy="9.1" r=".85" fill="#ffb6c9" opacity=".75"/><path d="M11.4 9.5Q12 10.1 12.6 9.5" fill="none" stroke="#c96a8a" stroke-width=".4" stroke-linecap="round"/><g class="gf-eo"><ellipse cx="10" cy="7.7" rx=".55" ry=".8" fill="#5e4470"/><ellipse cx="14" cy="7.7" rx=".55" ry=".8" fill="#5e4470"/><circle cx="10.2" cy="7.4" r=".2" fill="#fff"/><circle cx="14.2" cy="7.4" r=".2" fill="#fff"/></g><g class="gf-ec"><path d="M9.3 7.9Q10 8.4 10.7 7.9M13.3 7.9Q14 8.4 14.7 7.9" fill="none" stroke="#5e4470" stroke-width=".42" stroke-linecap="round"/></g><g class="gf-eh"><path d="M9.3 8.1Q10 7.2 10.7 8.1M13.3 8.1Q14 7.2 14.7 8.1" fill="none" stroke="#5e4470" stroke-width=".42" stroke-linecap="round"/></g><g class="gf-wnd"><path d="M16.3 13.4 20.2 8.4" stroke="#9a6eaa" stroke-width="1" stroke-linecap="round"/><path d="M16.3 13.4 20.2 8.4" stroke="#f3d8a8" stroke-width=".45" stroke-linecap="round"/><path transform="translate(18.6 5) scale(.9)" d="M2.5 0 3.2 1.7 5 1.9 3.6 3.1 4 4.9 2.5 4 1 4.9 1.4 3.1 0 1.9 1.8 1.7Z" fill="#ffe28a" stroke="#9a6eaa" stroke-width=".5" stroke-linejoin="round"/><circle cx="16.2" cy="13.5" r=".85" fill="#ffeadf" stroke="#9a6eaa" stroke-width=".5" stroke-linejoin="round"/></g></g></g><g class="gf-ht"><g><path transform="translate(42.5 2) scale(0.9)" d="M3 5.4C1.2 4 0 3 0 1.7 0 .7.8 0 1.6 0c.6 0 1.1.3 1.4.8C3.3.3 3.8 0 4.4 0 5.2 0 6 .7 6 1.7 6 3 4.8 4 3 5.4z" fill="#ff9fbd" stroke="#9a6eaa" stroke-width=".45" stroke-linejoin="round"/><circle cx="43.85" cy="3.35" r="0.49500000000000005" fill="#fff" opacity=".9"/></g></g><g class="gf-ht gf-ht2"><g><path transform="translate(35.5 8) scale(0.8)" d="M3 5.4C1.2 4 0 3 0 1.7 0 .7.8 0 1.6 0c.6 0 1.1.3 1.4.8C3.3.3 3.8 0 4.4 0 5.2 0 6 .7 6 1.7 6 3 4.8 4 3 5.4z" fill="#ffd0de" stroke="#9a6eaa" stroke-width=".45" stroke-linejoin="round"/><circle cx="36.7" cy="9.2" r="0.44000000000000006" fill="#fff" opacity=".9"/></g></g><g class="gf-sp"><g><path transform="translate(47.5 8.5) scale(0.8)" d="M2.5 0Q2.9 2.1 5 2.5Q2.9 2.9 2.5 5Q2.1 2.9 0 2.5Q2.1 2.1 2.5 0Z" fill="#ffe28a" stroke="#9a6eaa" stroke-width=".4" stroke-linejoin="round"/></g></g><g class="gf-sp gf-sp2"><g><path transform="translate(73.5 -0.5) scale(0.9)" d="M2.5 0Q2.9 2.1 5 2.5Q2.9 2.9 2.5 5Q2.1 2.9 0 2.5Q2.1 2.1 2.5 0Z" fill="#ffe28a" stroke="#9a6eaa" stroke-width=".4" stroke-linejoin="round"/></g></g></svg>
             <span class="gf-lbl" style="top: 46%; height: 54%; left: 2%; right: 15%;">로그인 없이 다꾸하기</span>
             </span>
             <span class="gf-desc">구경만 하거나, 이 기기에서만 쓰고 싶을 때<i>(접속한 기기에 저장)</i></span>
@@ -965,106 +935,106 @@
     </div>
 
     <!-- 📦 코드 파일 (순서 중요 · 업데이트할 때 ?v= 뒤 숫자를 바꾸면 모든 사용자가 새 파일을 받아요) -->
-    <script src="js/localtest.js?v=20261009-810"></script>   <!-- 💻 내 컴퓨터(localhost)에서만 : 로그인 없이 테스트 -->
-    <script src="js/trash.js?v=20261009-810"></script>   <!-- 🗑 휴지통 : 지운 것 · 덮어쓰기 전 모습 30일 -->
-    <script src="js/backup.js?v=20261009-810"></script>   <!-- 📦 백업 · 📥 불러오기 : 말랑달콤 폴더 통째로 zip -->
-    <script src="js/devsave.js?v=20261009-810"></script>   <!-- 📁 로그인 없이 : 이 기기의 말랑달콤 폴더에 저장 -->
-    <script src="js/drive.js?v=20261009-810"></script>
-    <script src="js/desk.js?v=20261009-810"></script>   <!-- 🪑 책상 꾸미기 (💻 PC · 아이패드만) -->
-    <script src="js/deskpaint.js?v=20261009-810"></script>   <!-- 🎨 책상 소품 꾸미기 (칠하기 · 이미지 붙이기) -->
-    <script src="js/coll.js?v=20261009-810"></script>
-    <script src="js/sound.js?v=20261009-810"></script>
-    <script src="js/app.js?v=20261009-810"></script>
-    <script src="js/page.js?v=20261009-810"></script>
-    <script src="js/elements.js?v=20261009-810"></script>
-    <script src="js/tapmenu.js?v=20261009-810"></script>
-    <script src="js/settings.js?v=20261009-810"></script>
-    <script src="js/patterns.js?v=20261009-810"></script>
+    <script src="js/localtest.js?v=20261009-811"></script>   <!-- 💻 내 컴퓨터(localhost)에서만 : 로그인 없이 테스트 -->
+    <script src="js/trash.js?v=20261009-811"></script>   <!-- 🗑 휴지통 : 지운 것 · 덮어쓰기 전 모습 30일 -->
+    <script src="js/backup.js?v=20261009-811"></script>   <!-- 📦 백업 · 📥 불러오기 : 말랑달콤 폴더 통째로 zip -->
+    <script src="js/devsave.js?v=20261009-811"></script>   <!-- 📁 로그인 없이 : 이 기기의 말랑달콤 폴더에 저장 -->
+    <script src="js/drive.js?v=20261009-811"></script>
+    <script src="js/desk.js?v=20261009-811"></script>   <!-- 🪑 책상 꾸미기 (💻 PC · 아이패드만) -->
+    <script src="js/deskpaint.js?v=20261009-811"></script>   <!-- 🎨 책상 소품 꾸미기 (칠하기 · 이미지 붙이기) -->
+    <script src="js/coll.js?v=20261009-811"></script>
+    <script src="js/sound.js?v=20261009-811"></script>
+    <script src="js/app.js?v=20261009-811"></script>
+    <script src="js/page.js?v=20261009-811"></script>
+    <script src="js/elements.js?v=20261009-811"></script>
+    <script src="js/tapmenu.js?v=20261009-811"></script>
+    <script src="js/settings.js?v=20261009-811"></script>
+    <script src="js/patterns.js?v=20261009-811"></script>
     <!-- 🌟 카페에서 받아 등록한 사용자 패턴 (pattern-tool.html 로 만들어요 · 없거나 깨져도 다이어리는 정상 동작) -->
     <script src="js/community-patterns.js"></script>
     <!-- 🌟 카페에서 받아 등록한 모두의 스킨 (pattern-tool.html 로 만들어요 · 없거나 깨져도 다이어리는 정상 동작) -->
     <script src="js/community-skins.js"></script>
-    <script src="js/pattern-recipe.js?v=20261009-810"></script>
-    <script src="js/skins.js?v=20261009-810"></script>
-    <script src="js/dkguide.js?v=20261009-810"></script>   <!-- 🩷 처음 쓰는 사람용 다꾸하는 법 메모 -->
-    <script src="js/dymaker.js?v=20261009-810"></script>
-    <script src="js/pattern-maker.js?v=20261009-810"></script>
-    <script src="js/skinstudio.js?v=20261009-810"></script>
-    <script src="js/theme-skins.js?v=20261009-810"></script>
-    <script src="js/doll-art.js?v=20261009-810"></script>
-    <script src="js/doll-render.js?v=20261009-810"></script>
-    <script src="js/doll-store.js?v=20261009-810"></script>
-    <script src="js/doll-room.js?v=20261009-810"></script>
-    <script src="js/doll-move.js?v=20261009-810"></script>
-    <script src="js/glrun.js?v=20261009-810"></script>
-    <script src="js/char-move.js?v=20261009-810"></script>
-    <script src="js/puppet.js?v=20261009-810"></script>
-    <script src="js/service.js?v=20261009-810"></script>
+    <script src="js/pattern-recipe.js?v=20261009-811"></script>
+    <script src="js/skins.js?v=20261009-811"></script>
+    <script src="js/dkguide.js?v=20261009-811"></script>   <!-- 🩷 처음 쓰는 사람용 다꾸하는 법 메모 -->
+    <script src="js/dymaker.js?v=20261009-811"></script>
+    <script src="js/pattern-maker.js?v=20261009-811"></script>
+    <script src="js/skinstudio.js?v=20261009-811"></script>
+    <script src="js/theme-skins.js?v=20261009-811"></script>
+    <script src="js/doll-art.js?v=20261009-811"></script>
+    <script src="js/doll-render.js?v=20261009-811"></script>
+    <script src="js/doll-store.js?v=20261009-811"></script>
+    <script src="js/doll-room.js?v=20261009-811"></script>
+    <script src="js/doll-move.js?v=20261009-811"></script>
+    <script src="js/glrun.js?v=20261009-811"></script>
+    <script src="js/char-move.js?v=20261009-811"></script>
+    <script src="js/puppet.js?v=20261009-811"></script>
+    <script src="js/service.js?v=20261009-811"></script>
     <!-- 🎁 랜덤박스 (없어도 다이어리는 정상 동작) -->
-    <script src="js/gacha.js?v=20261009-810"></script>
-    <script src="js/presence.js?v=20261009-810"></script>
-    <script src="js/fbase.js?v=20261009-810"></script>   <!-- 🔥 파이어스토어 연결 (🔔 선물 벨 · 📞 전화기) -->
-    <script src="js/fphone.js?v=20261009-810"></script>   <!-- 📞 반짝이 피처폰 메신저 (로그인 회원끼리) -->
+    <script src="js/gacha.js?v=20261009-811"></script>
+    <script src="js/presence.js?v=20261009-811"></script>
+    <script src="js/fbase.js?v=20261009-811"></script>   <!-- 🔥 파이어스토어 연결 (🔔 선물 벨 · 📞 전화기) -->
+    <script src="js/fphone.js?v=20261009-811"></script>   <!-- 📞 반짝이 피처폰 메신저 (로그인 회원끼리) -->
     <!-- 🎵 배경음악 (없어도 다이어리는 정상 동작) -->
-    <script src="js/bgm.js?v=20261009-810"></script>
+    <script src="js/bgm.js?v=20261009-811"></script>
     <!-- 🔮 포춘카드 (없어도 다이어리는 정상 동작) -->
-    <script src="js/fortune.js?v=20261009-810"></script>
+    <script src="js/fortune.js?v=20261009-811"></script>
     <!-- 🕹 오락실 (없어도 다이어리는 정상 동작) -->
-    <script src="js/arcade.js?v=20261009-810"></script>
-    <script src="js/hof.js?v=20261009-810"></script>
+    <script src="js/arcade.js?v=20261009-811"></script>
+    <script src="js/hof.js?v=20261009-811"></script>
     <!-- 🌙 꿈해몽 (상징 사전 js/dream-data.js 는 꿈해몽을 열 때 불러와요 · 없어도 다이어리는 정상 동작) -->
-    <script src="js/ritual.js?v=20261009-810"></script>
-    <script src="js/dream.js?v=20261009-810"></script>
+    <script src="js/ritual.js?v=20261009-811"></script>
+    <script src="js/dream.js?v=20261009-811"></script>
     <!-- 🎍 토정비결 (음력 계산 js/lib/korean-lunar-calendar.min.js 는 토정비결을 열 때 불러와요 · 없어도 다이어리는 정상 동작) -->
-    <script src="js/tojeong.js?v=20261009-810"></script>
-    <script src="js/plant.js?v=20261009-810"></script>
-    <script src="js/capsule-stickers.js?v=20261009-810"></script>
-    <script src="js/attend.js?v=20261009-810"></script>
-    <script src="js/luck.js?v=20261009-810"></script>
-    <script src="js/question-data.js?v=20261009-810"></script>
-    <script src="js/question.js?v=20261009-810"></script>
-    <script src="js/tape.js?v=20261009-810"></script>
-    <script src="js/paper.js?v=20261009-810"></script>
-    <script src="js/leafpad.js?v=20261009-810"></script>
-    <script src="js/leafmaker.js?v=20261009-810"></script>
-    <script src="js/draw.js?v=20261009-810"></script>
-    <script src="js/pencase.js?v=20261009-810"></script>
-    <script src="js/frame.js?v=20261009-810"></script>
-    <script src="js/season-data.js?v=20261009-810"></script>
-    <script src="js/season.js?v=20261009-810"></script>
-    <script src="js/lock.js?v=20261009-810"></script>
-    <script src="js/cycle.js?v=20261009-810"></script>
-    <script src="js/month.js?v=20261009-810"></script>
-    <script src="js/stamp.js?v=20261009-810"></script>
-    <script src="js/search.js?v=20261009-810"></script>
-    <script src="js/dday.js?v=20261009-810"></script>
-    <script src="js/show.js?v=20261009-810"></script>
-    <script src="js/press.js?v=20261009-810"></script>
-    <script src="js/photobooth.js?v=20261009-810"></script>
-    <script src="js/stickermaker.js?v=20261009-810"></script>
-    <script src="js/stickerpeel.js?v=20261009-810"></script>
-    <script src="js/stkedit.js?v=20261009-810"></script>   <!-- 🎨 스티커 다듬기 : 씰 종이에서 떼기 전에 색 · 뒤집기 · 자르기 · 지우개 · 글씨 · 반짝이 -->
-    <script src="js/stkcut.js?v=20261009-810"></script>   <!-- ✂ 스티커 자르기 : 꾹 누르기 메뉴 → 스티커 칼로 가로질러 그어 두 조각 -->
-    <script src="js/ruler.js?v=20261009-810"></script>   <!-- 📏 자 : 연필꽂이에서 뽑아 페이지에 깔아 둬요 · 칼 · 색연필을 대면 반듯하게 · 진짜 cm -->
-    <script src="js/piecebag.js?v=20261009-810"></script>
-    <script src="js/dakku.js?v=20261009-810"></script>
-    <script src="js/papermaker.js?v=20261009-810"></script>
-    <script src="js/stk-basic.js?v=20261009-810"></script>
-    <script src="js/peelfx.js?v=20261009-810"></script>
-    <script src="js/tapemaker.js?v=20261009-810"></script>
-    <script src="js/sharebox.js?v=20261009-810"></script>
-    <script src="js/namematch.js?v=20261009-810"></script>
-    <script src="js/psytest-data.js?v=20261009-810"></script>
-    <script src="js/psytest.js?v=20261009-810"></script>
-    <script src="js/letter.js?v=20261009-810"></script>
-    <script src="js/install.js?v=20261009-810"></script>
-    <script src="js/piggy.js?v=20261009-810"></script>
-    <script src="js/wall.js?v=20261009-810"></script>
-    <script src="js/arrival.js?v=20261009-810"></script>
-    <script src="js/own.js?v=20261009-810"></script>   <!-- 🎒 유한 스티커 : 내 종이 저장 · 한 번 쓰면 영원히 사라져요 -->
-    <script src="js/basket.js?v=20261009-810"></script>   <!-- 🧺 내 바구니 · 🏪 기본상품 샵 -->
-    <script src="js/itemshare.js?v=20261009-810"></script>   <!-- 📤 공유 파일로 저장 · 📥 불러오기 (받으면 그 계정의 새 1개) -->
-    <script src="js/shopscene.js?v=20261009-810"></script>   <!-- 🏪 기본상품 샵 가게 (문 → 연핑크 → 가게 안) -->
+    <script src="js/tojeong.js?v=20261009-811"></script>
+    <script src="js/plant.js?v=20261009-811"></script>
+    <script src="js/capsule-stickers.js?v=20261009-811"></script>
+    <script src="js/attend.js?v=20261009-811"></script>
+    <script src="js/luck.js?v=20261009-811"></script>
+    <script src="js/question-data.js?v=20261009-811"></script>
+    <script src="js/question.js?v=20261009-811"></script>
+    <script src="js/tape.js?v=20261009-811"></script>
+    <script src="js/paper.js?v=20261009-811"></script>
+    <script src="js/leafpad.js?v=20261009-811"></script>
+    <script src="js/leafmaker.js?v=20261009-811"></script>
+    <script src="js/draw.js?v=20261009-811"></script>
+    <script src="js/pencase.js?v=20261009-811"></script>
+    <script src="js/frame.js?v=20261009-811"></script>
+    <script src="js/season-data.js?v=20261009-811"></script>
+    <script src="js/season.js?v=20261009-811"></script>
+    <script src="js/lock.js?v=20261009-811"></script>
+    <script src="js/cycle.js?v=20261009-811"></script>
+    <script src="js/month.js?v=20261009-811"></script>
+    <script src="js/stamp.js?v=20261009-811"></script>
+    <script src="js/search.js?v=20261009-811"></script>
+    <script src="js/dday.js?v=20261009-811"></script>
+    <script src="js/show.js?v=20261009-811"></script>
+    <script src="js/press.js?v=20261009-811"></script>
+    <script src="js/photobooth.js?v=20261009-811"></script>
+    <script src="js/stickermaker.js?v=20261009-811"></script>
+    <script src="js/stickerpeel.js?v=20261009-811"></script>
+    <script src="js/stkedit.js?v=20261009-811"></script>   <!-- 🎨 스티커 다듬기 : 씰 종이에서 떼기 전에 색 · 뒤집기 · 자르기 · 지우개 · 글씨 · 반짝이 -->
+    <script src="js/stkcut.js?v=20261009-811"></script>   <!-- ✂ 스티커 자르기 : 꾹 누르기 메뉴 → 스티커 칼로 가로질러 그어 두 조각 -->
+    <script src="js/ruler.js?v=20261009-811"></script>   <!-- 📏 자 : 연필꽂이에서 뽑아 페이지에 깔아 둬요 · 칼 · 색연필을 대면 반듯하게 · 진짜 cm -->
+    <script src="js/piecebag.js?v=20261009-811"></script>
+    <script src="js/dakku.js?v=20261009-811"></script>
+    <script src="js/papermaker.js?v=20261009-811"></script>
+    <script src="js/stk-basic.js?v=20261009-811"></script>
+    <script src="js/peelfx.js?v=20261009-811"></script>
+    <script src="js/tapemaker.js?v=20261009-811"></script>
+    <script src="js/sharebox.js?v=20261009-811"></script>
+    <script src="js/namematch.js?v=20261009-811"></script>
+    <script src="js/psytest-data.js?v=20261009-811"></script>
+    <script src="js/psytest.js?v=20261009-811"></script>
+    <script src="js/letter.js?v=20261009-811"></script>
+    <script src="js/install.js?v=20261009-811"></script>
+    <script src="js/piggy.js?v=20261009-811"></script>
+    <script src="js/wall.js?v=20261009-811"></script>
+    <script src="js/arrival.js?v=20261009-811"></script>
+    <script src="js/own.js?v=20261009-811"></script>   <!-- 🎒 유한 스티커 : 내 종이 저장 · 한 번 쓰면 영원히 사라져요 -->
+    <script src="js/basket.js?v=20261009-811"></script>   <!-- 🧺 내 바구니 · 🏪 기본상품 샵 -->
+    <script src="js/itemshare.js?v=20261009-811"></script>   <!-- 📤 공유 파일로 저장 · 📥 불러오기 (받으면 그 계정의 새 1개) -->
+    <script src="js/shopscene.js?v=20261009-811"></script>   <!-- 🏪 기본상품 샵 가게 (문 → 연핑크 → 가게 안) -->
 
     <!-- 🛡 파일 누락 확인 : 하나라도 못 읽었으면 다이어리를 시작하지 않아서 잘못된 저장을 막아요 -->
     <script>

diff --git a/css/style.css b/css/style.css
@@ -348,9 +348,9 @@
         .gf-btn:focus-visible { outline: 3px solid rgba(240,86,122,.45); outline-offset: 4px; border-radius: 14px; }
         .gf-art { position: relative; display: block; }
         .gf-btn:active .gf-art { transform: translateY(4px); }
-        .gf-btn svg { display: block; width: 100%; height: auto; overflow: visible; shape-rendering: crispEdges; }
-        .gf-lbl { position: absolute; display: flex; align-items: center; justify-content: center; font-family: 'Jua', var(--system-font), sans-serif; font-size: 19px; color: #c25a7d; white-space: nowrap; pointer-events: none; }
-        .gf-fl .gf-lbl { color: #8566c4; }
+        .gf-btn svg { display: block; width: 100%; height: auto; overflow: visible; }   /* 부드러운 선 그림 (도련 10-28 · 예전 픽셀 crispEdges 끔) */
+        .gf-lbl { position: absolute; display: flex; align-items: center; justify-content: center; font-family: 'Jua', var(--system-font), sans-serif; font-size: 19px; color: #c85d8c; text-shadow: 0 1px 0 rgba(255, 255, 255, .85); white-space: nowrap; pointer-events: none; }
+        .gf-fl .gf-lbl { color: #8160b4; }
         .gf-desc { display: block; margin-top: 8px; font-size: 12.5px; letter-spacing: -.3px; line-height: 1.5; color: #93697a; word-break: keep-all; text-wrap: balance; }
         .gf-desc i { display: block; font-style: normal; font-size: 12px; color: #b58c9b; }
         .gf-wu { animation: gfFlapU .4s steps(1) infinite; }
@@ -4396,10 +4396,21 @@ body.cafe-on .dg-note { visibility: hidden; }
 
 /* 🚪 로그인 화면 = 커튼 달린 분홍 문 + 레이스 알림판 (도련 10-26 · img/gate-wide.webp 💻 아이패드 · PC / img/gate-tall.webp 📱 폰)
    카드는 알림판 가운데에 붙고 알림판 안에 들어가게 크기를 맞춰요 (js/drive.js gateFit · 그림 속 알림판 자리) */
-.drive-gate.gate-art { background: #f3c4bd url(../img/gate-wide.webp?v=20261009-807) center / cover no-repeat; }
-@media (max-aspect-ratio: 1/1) { .drive-gate.gate-art { background-image: url(../img/gate-tall.webp?v=20261009-807); } }
+.drive-gate.gate-art { background: #f3c4bd url(../img/gate-wide.webp?v=20261009-811) center / cover no-repeat; }
+@media (max-aspect-ratio: 1/1) { .drive-gate.gate-art { background-image: url(../img/gate-tall.webp?v=20261009-811); } }
 .gate-art .gate-card { position: absolute; left: 50%; top: 50%; translate: -50% -50%; scale: var(--gs, 1); transform-origin: 50% 50%; background: none; box-shadow: none; padding: 0; animation: none; }   /* 창 튀어나오기(winPop)는 끔 : translate 를 써서 오른쪽에서 미끄러져 들어와 보였어요 (도련 10-26) */
 .gate-art .gate-card::before { display: none; }   /* 📔 움직이는 작은 다이어리는 그대로 (도련 10-26) */
+/* 🎨 문 그림 톤에 맞춘 글자 · 아이콘 (도련 10-28 : 연보라 가는 선 #9a6eaa · 파스텔 분홍 · 크림) */
+.gate-art .gate-title { color: #e2779f; font-family: 'Jua', var(--system-font), sans-serif; font-weight: 400; font-size: 27px; letter-spacing: .5px; text-shadow: 0 2px 0 #fff, 0 0 1px #fff, 1.5px 0 0 #fff, -1.5px 0 0 #fff, 0 -1.5px 0 #fff, 0 3px 0 rgba(154, 110, 170, .28); }
+.gate-art .gate-sub { color: #9a6eaa; font-weight: 700; }
+.gate-art .gf-desc { color: #8b6c98; }
+.gate-art .gf-desc i { color: #b39cc2; }
+.gate-art .gate-msg { color: #8b6c98; }
+.gate-art .gate-book { border: 1.6px solid #9a6eaa; border-radius: 5px 10px 10px 5px; box-sizing: border-box;
+    background: linear-gradient(90deg, rgba(248, 160, 192, .38) 50%, transparent 0) 0 0 / 10px 10px, linear-gradient(rgba(248, 160, 192, .38) 50%, transparent 0) 0 0 / 10px 10px, #fff4f8;
+    box-shadow: inset 6px 0 0 #fbc6d8, inset 7.6px 0 0 #9a6eaa, 0 6px 12px rgba(154, 110, 170, .2); }
+.gate-art .gate-book::after { color: #f08aa8; }
+.gate-art .gate-dots i { background: #f3a2bf; }
 @media (min-aspect-ratio: 1/1) {                                          /* 💻 가로 알림판 : 버튼 두 개를 나란히 */
     .gate-art .gate-card { display: grid; grid-template-columns: repeat(2, 300px); column-gap: 22px; row-gap: 10px; justify-items: center; width: auto; }
     .gate-art .gate-card > * { grid-column: 1 / -1; }
